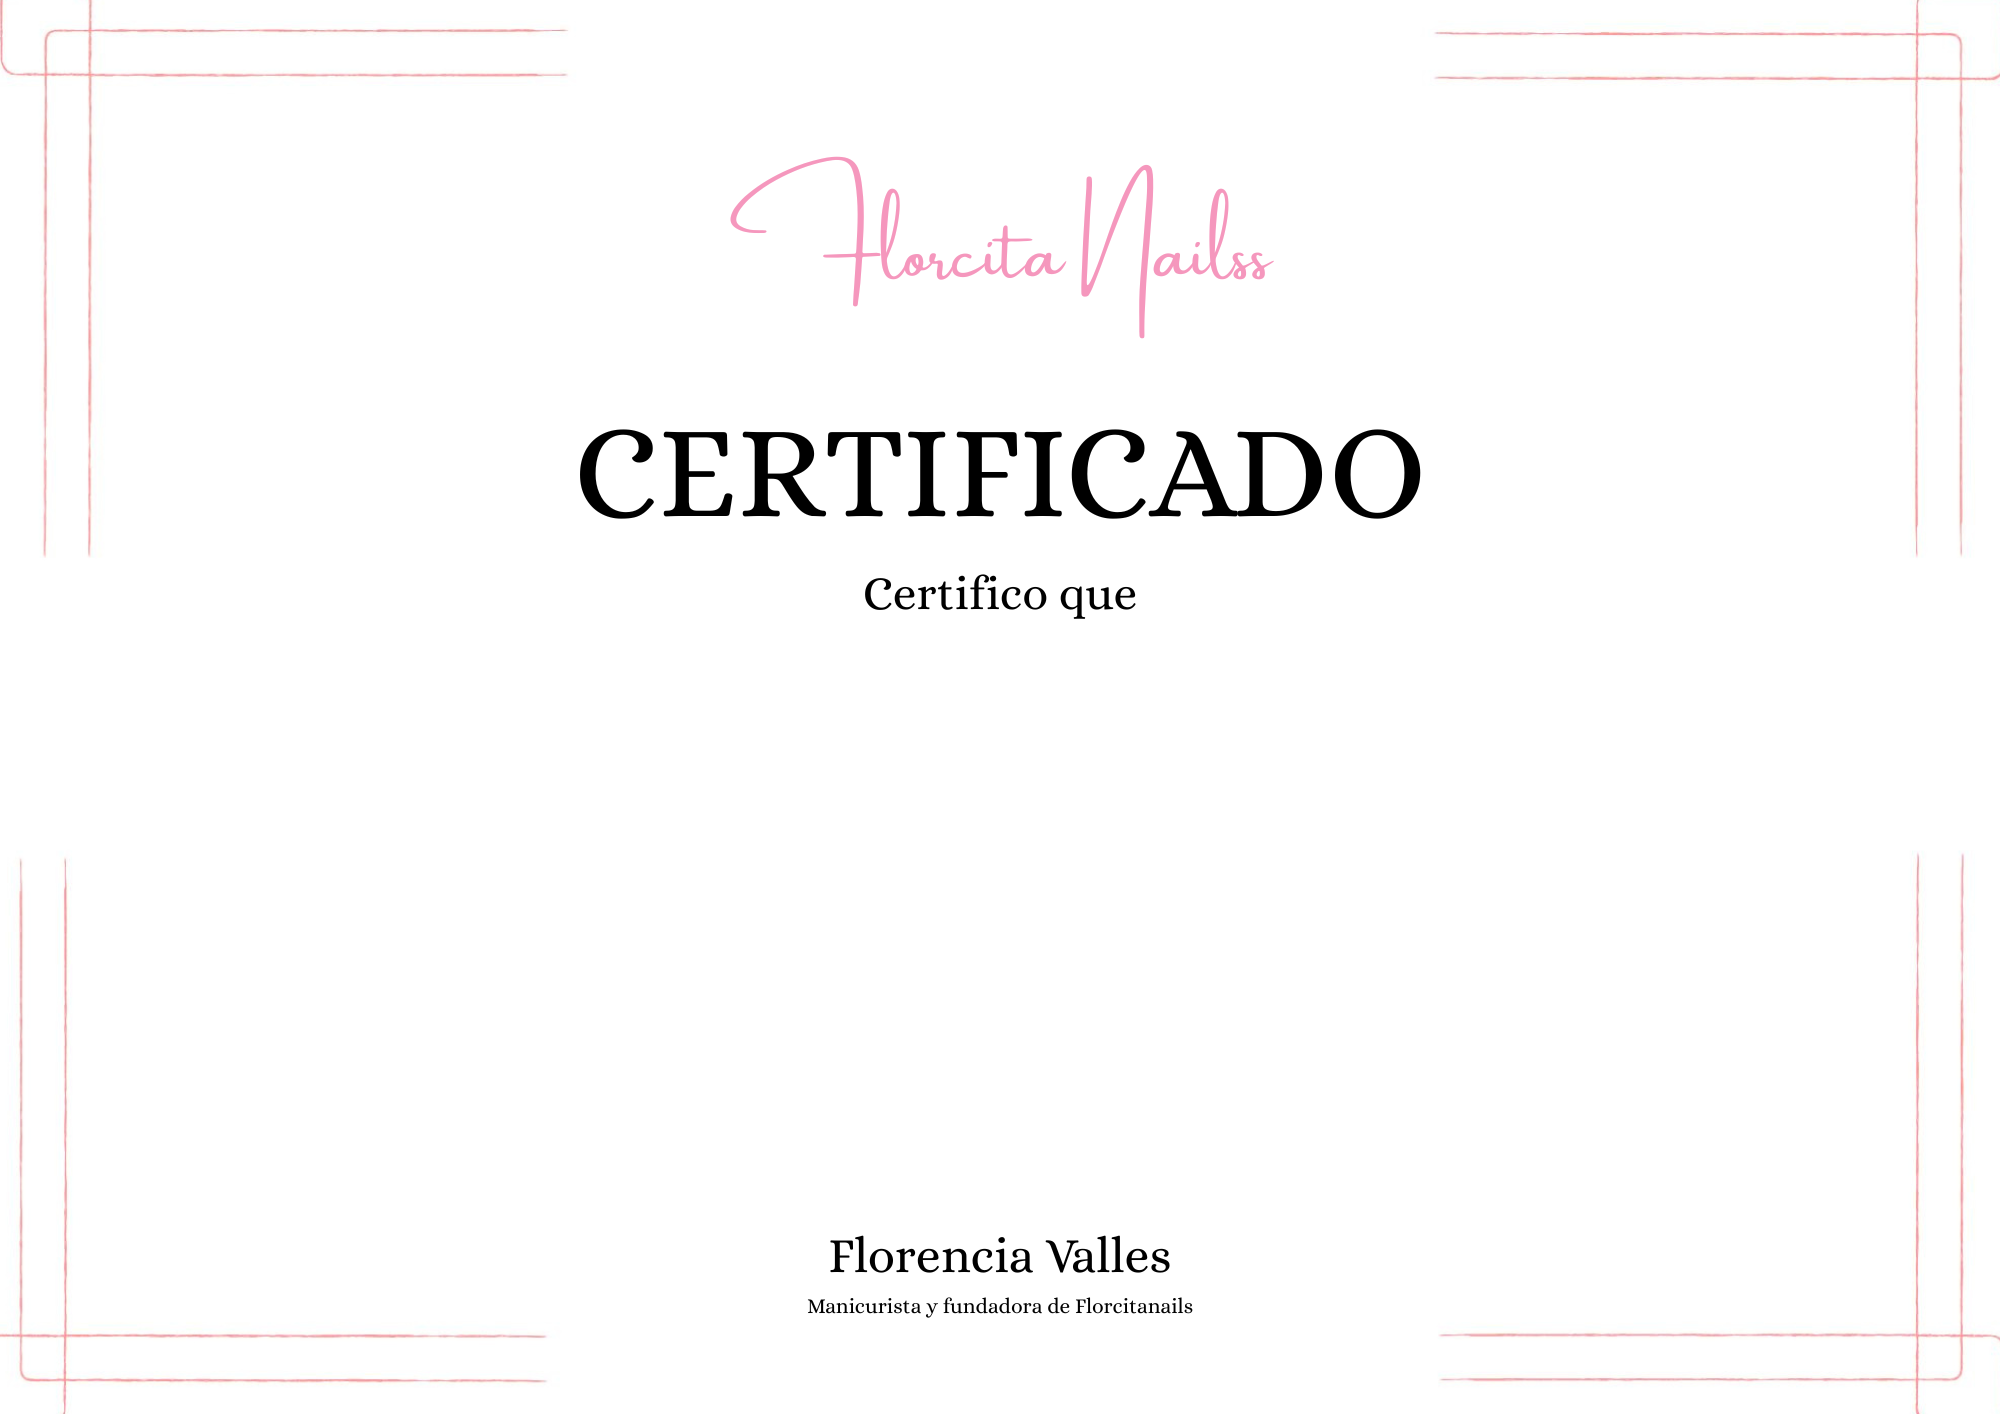
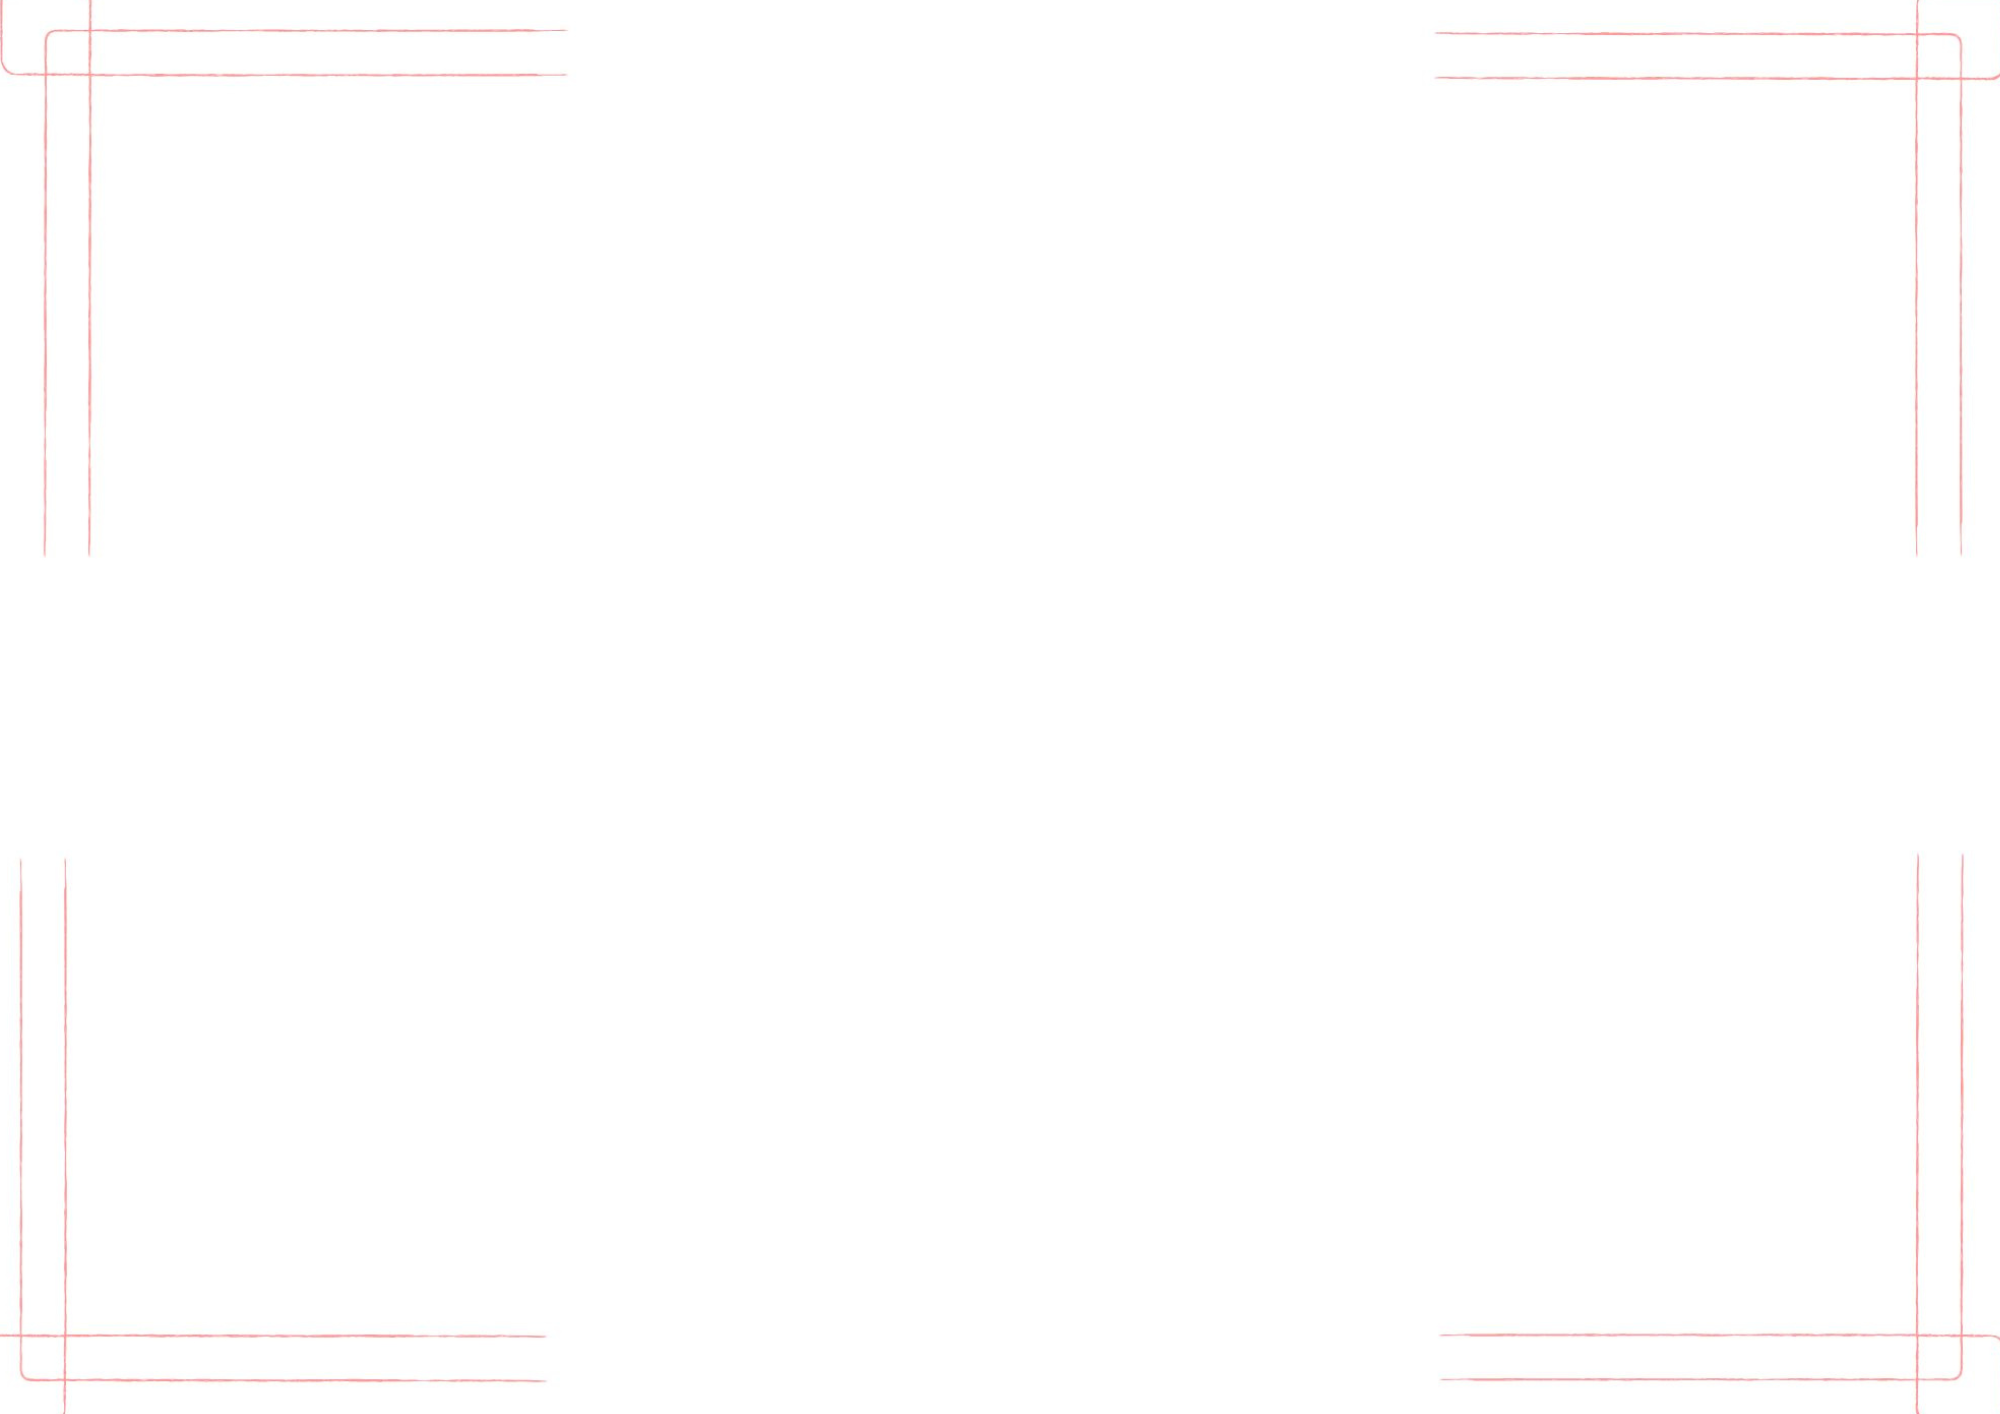
Refactor code structure for improved readability and maintainability

diff --git a/app/(routes)/certificados/components/Certificado.tsx b/app/(routes)/certificados/components/Certificado.tsx
@@ -16,28 +16,61 @@ export function Certificado({
       id="certificado"
       className="relative bg-[url('/certificado.png')] bg-cover bg-center text-[#000] shadow-xl"
       style={{
-        width: '100%',
-        maxWidth: '1122px',
-        aspectRatio: '1122/793', 
-        height: 'auto',
-        overflow: 'hidden',
-        fontFamily: 'sans-serif',
-        margin: '0 auto', 
+        width: "100%",
+        maxWidth: "1122px",
+        aspectRatio: "1122/793",
+        height: "auto",
+        overflow: "hidden",
+        fontFamily: "sans-serif",
+        margin: "0 auto",
       }}
     >
-      <div className="absolute top-[45%] sm:top-[45%] left-0 w-full flex justify-center px-4">
-        <h2 className="text-lg sm:text-4xl md:text-[40px] font-semibold tracking-wide leading-none text-center">
+      {/* Logo */}
+      <div className="absolute top-[4%] md:top-[8%] left-0 w-full flex justify-center px-4">
+        <img
+          src="/logo-certificado.png"
+          alt="logo"
+          className="w-[150px] md:w-[180px]"
+        />
+      </div>
+
+      {/* Texto: Otorga el certificado */}
+      <div className="absolute top-[35%] md:top-[30%] left-0 w-full flex justify-center px-4">
+        <h1 className="text-[20px] sm:text-4xl md:text-[36px] lg:text-[40px] tracking-wide leading-none text-center">
+          Otorga el certificado a{" "}
+        </h1>
+      </div>
+
+      {/* Nombre del alumno */}
+      <div className="absolute top-[47%] md:top-[40%] left-0 w-full flex justify-center px-4">
+        <h2 className="text-[15px] sm:text-4xl md:text-[36px] lg:text-[40px] font-semibold tracking-wide leading-none text-center">
           {name}
         </h2>
       </div>
-      <div className="absolute top-[55%] sm:top-[56%] left-0 w-full flex justify-center px-4">
-        <p className="text-sm sm:text-base md:text-lg font-normal text-center tracking-wide max-w-[90%] sm:max-w-[900px]">
-          Ha realizado y completado con éxito su curso de uñas
-          <span className="font-semibold"> {title}</span>.
+
+      {/* Descripción del curso */}
+      <div className="absolute top-[55%] md:top-[50%] left-0 w-full flex justify-center px-4">
+        <p className="text-[10px] sm:text-base md:text-lg lg:text-xl font-normal text-center tracking-wide">
+          Completó con éxito el curso de uñas{" "}
+          <span className="font-semibold">{title}</span>.
         </p>
       </div>
-      <div className="absolute top-[70%] sm:top-[75%] left-0 w-full flex justify-center">
-        <p className="text-sm sm:text-base md:text-lg">{new Date().toLocaleDateString()}</p>
+
+      {/* Fecha */}
+      <div className="absolute top-[70%] md:top-[68%] left-0 w-full flex justify-center">
+        <p className="text-[10px] sm:text-base md:text-lg lg:text-xl">
+          {new Date().toLocaleDateString()}
+        </p>
+      </div>
+
+      {/* Firma */}
+      <div className="absolute top-[85%] md:top-[75%] left-6 md:left-0 w-full flex flex-col justify-center px-4">
+        <p className="text-[8px] sm:text-base md:text-lg lg:text-xl font-bold text-center tracking-wide max-w-[90%] sm:max-w-[900px]">
+          Florencia Valles
+        </p>
+        <p className="text-[6px] sm:text-base md:text-lg lg:text-xl font-normal text-center tracking-wide max-w-[90%] sm:max-w-[900px]">
+          Manicurista y fundadora de Florcitanails
+        </p>
       </div>
     </div>
   );

diff --git a/app/(routes)/teacher/presenciales/components/nav.tsx b/app/(routes)/teacher/presenciales/components/nav.tsx
@@ -1,0 +1,22 @@
+import Link from "next/link";
+
+export function Nav() {
+    return (
+        <div className="my-1 mx-8 border rounded-lg bg-white flex justify-center items-center md:justify-start">
+            <nav className="p-4">
+                <ul className="flex  gap-2">
+                    <li>
+                        <Link href="/teacher/presenciales">
+                            Notificaciones
+                        </Link>
+                    </li>
+                    <li>
+                        <Link href="/teacher/presenciales/list">
+                            Alumnos
+                        </Link>
+                    </li>
+                </ul>
+            </nav>
+    </div>
+    )
+}

diff --git a/app/(routes)/teacher/presenciales/components/FuturePresencial.tsx b/app/(routes)/teacher/presenciales/components/FuturePresencial.tsx
@@ -1,5 +1,7 @@
 import { getFormPresencials } from "@/dal/FormPresencial";
 import FuturePresencialClient from "./FuturePresencialClient";
+import { TitleBlock } from "@/components/Shared";
+import { BellRing } from "lucide-react";
 
 export default async function FuturePresencial() {
   const data = await getFormPresencials();
@@ -8,5 +10,10 @@ export default async function FuturePresencial() {
     return <div>No hay formularios presenciales</div>
   }
 
-  return <FuturePresencialClient data={data} />
-}
+  return (
+      <div className="p-6">
+        <TitleBlock title="Notificaciones" icon={BellRing} />
+        <FuturePresencialClient data={data} />
+      </div>
+  )
+} 

diff --git a/app/(routes)/teacher/presenciales/list/page.tsx b/app/(routes)/teacher/presenciales/list/page.tsx
@@ -1,15 +1,14 @@
 import { Suspense } from "react";
-import { Nav, PresencialesHeader } from "./components";
-import FuturePresencial from "./components/FuturePresencial";
 import { PresencialesSkeleton } from "@/components/Skeleton/PresencialesSkeleton";
+import { Nav, Presenciales, PresencialesHeader } from "../components";
 
-export default function TeacherPresenciales() {
+export default function ListPresenciales() {
   return (
     <div className="p-6">
       <PresencialesHeader />
       <Nav />
        <Suspense fallback={<PresencialesSkeleton  />}>
-        <FuturePresencial />
+            <Presenciales />
       </Suspense>
     </div>
   );

diff --git a/app/(routes)/certificados/components/downloadCertificado.tsx b/app/(routes)/certificados/components/downloadCertificado.tsx
@@ -30,12 +30,8 @@ export function DownloadCertificado({
     }
 
     const canvas = await html2canvas(certRef.current, {
-      scale: 2, 
-      backgroundColor: null,
-      removeContainer: true,
+      scale: 6, 
       useCORS: true, 
-      allowTaint: true,
-      logging: true,
     });
 
     const link = document.createElement("a");

diff --git a/app/(routes)/teacher/presenciales/components/FuturePresencialClient.tsx b/app/(routes)/teacher/presenciales/components/FuturePresencialClient.tsx
@@ -15,7 +15,7 @@ export default function FuturePresencialClient({ data }: { data: Payment[] }) {
   }
 
   return (
-    <div className="container mx-auto py-10">
+    <div className="container mx-auto">
       <DataTable columns={columns(handleDelete)} data={data}/>
     </div>
   )

diff --git a/app/api/courses/teacher/[slug]/route.ts b/app/api/courses/teacher/[slug]/route.ts
@@ -16,7 +16,7 @@ export async function PATCH(
     const { slug } = await params;
 
     const values = await req.json();
-    console.log(values);
+    console.log(values);  
     if (!session) {
       return NextResponse.json({ error: "Unauthorized" }, { status: 401 });
     }

diff --git a/app/(routes)/teacher/presenciales/components/presenciales.tsx b/app/(routes)/teacher/presenciales/components/presenciales.tsx
@@ -1,0 +1,10 @@
+import { TitleBlock } from "@/components/Shared";
+import { User } from "lucide-react";
+
+export const Presenciales = () => {
+  return (
+    <div className="p-6">
+      <TitleBlock title="Alumnos" icon={User} />
+    </div>
+  );
+};

diff --git a/app/(routes)/teacher/presenciales/components/index.ts b/app/(routes)/teacher/presenciales/components/index.ts
@@ -1,2 +1,7 @@
 export * from "./header";
 export * from "./formPurchase";
+export * from "./FuturePresencial";
+export * from "./FuturePresencialClient";
+export * from "./data-table";
+export * from "./nav";
+export * from "./presenciales";

diff --git a/app/(routes)/teacher/components/courseTeacher.tsx b/app/(routes)/teacher/components/courseTeacher.tsx
@@ -1,4 +1,3 @@
-import { Course } from "@prisma/client";
 import { CardCourse } from "./cardCourse";
 import { auth } from "@/lib/auth";
 import { prisma } from "@/lib/prisma";
